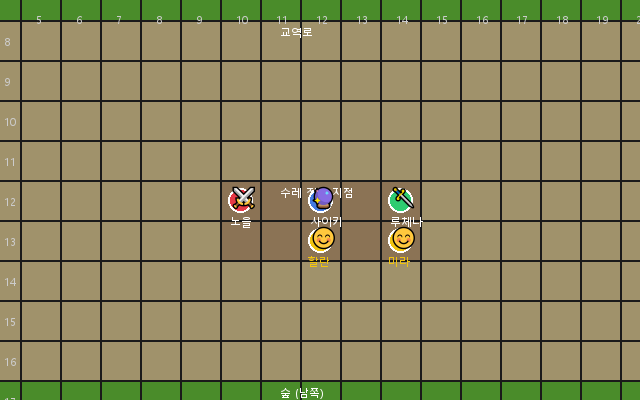
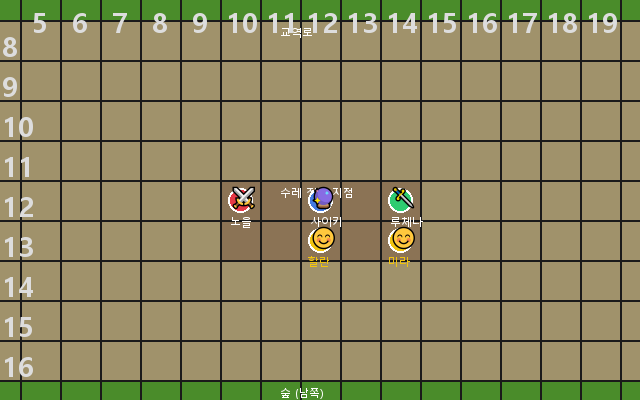
fix: 미니맵 좌표 크고 굵게 (28px Bold, 타일 크기에 맞춤)

diff --git a/map_generator.py b/map_generator.py
@@ -290,13 +290,19 @@ class MapGenerator:
 
         cropped = full_img.crop((left, top, right, bottom))
 
-        # 미니맵에 좌표 오버레이 추가
+        # 미니맵에 좌표 오버레이 추가 — 크고 굵게, 타일 한 칸 크기
         from PIL import ImageDraw, ImageFont
         draw_mini = ImageDraw.Draw(cropped)
+
+        # 볼드 폰트 시도 (malgunbd = 맑은고딕 Bold)
         coord_font = ImageFont.load_default()
-        for fp in font_paths_global:
+        bold_paths = [
+            "C:/Windows/Fonts/malgunbd.ttf",
+            "C:/Windows/Fonts/arialbd.ttf",
+        ] + font_paths_global
+        for fp in bold_paths:
             try:
-                coord_font = ImageFont.truetype(fp, 11)
+                coord_font = ImageFont.truetype(fp, 28)
                 break
             except (OSError, IOError):
                 continue
@@ -307,17 +313,21 @@ class MapGenerator:
         tile_end_x = tile_start_x + int(crop_w / self.tile_size) + 1
         tile_end_y = tile_start_y + int(crop_h / self.tile_size) + 1
 
-        # 가로 좌표 (상단) — 12px from top to avoid clipping
+        # 가로 좌표 (상단) — 타일 중앙에 배치
         for i in range(tile_start_x, tile_end_x):
-            px = (i * self.tile_size + margin_left + self.tile_size // 2) - left - 4
-            if 0 <= px < cropped.width:
-                draw_mini.text((px, 12), str(i), fill="#cccccc", font=coord_font)
+            tile_center_x = (i * self.tile_size + margin_left + self.tile_size // 2) - left
+            text = str(i)
+            tx = tile_center_x - 8 if i < 10 else tile_center_x - 14
+            if 0 <= tx < cropped.width - 20:
+                draw_mini.text((tx, 2), text, fill="#dddddd", font=coord_font)
 
-        # 세로 좌표 (좌측) — 4px from left for readability
+        # 세로 좌표 (좌측) — 타일 중앙에 배치
         for i in range(tile_start_y, tile_end_y):
-            py = (i * self.tile_size + margin_top + self.tile_size // 2) - top - 6
-            if 12 <= py < cropped.height:
-                draw_mini.text((4, py), str(i), fill="#cccccc", font=coord_font)
+            tile_center_y = (i * self.tile_size + margin_top + self.tile_size // 2) - top
+            text = str(i)
+            ty = tile_center_y - 14
+            if 0 <= ty < cropped.height - 20:
+                draw_mini.text((2, ty), text, fill="#dddddd", font=coord_font)
 
         mini_path = os.path.join(self.base_dir, "static", "map_mini.png")
         cropped.save(mini_path, "PNG")
